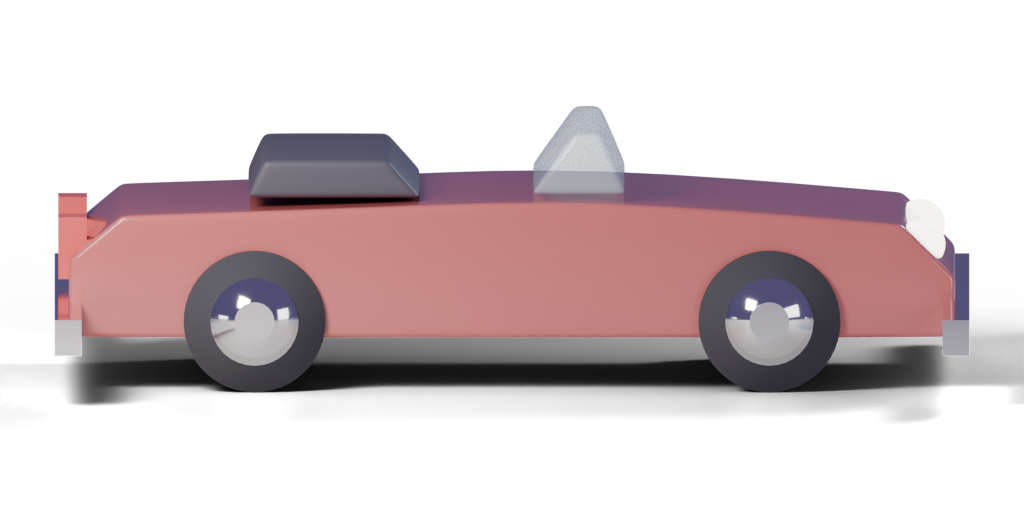
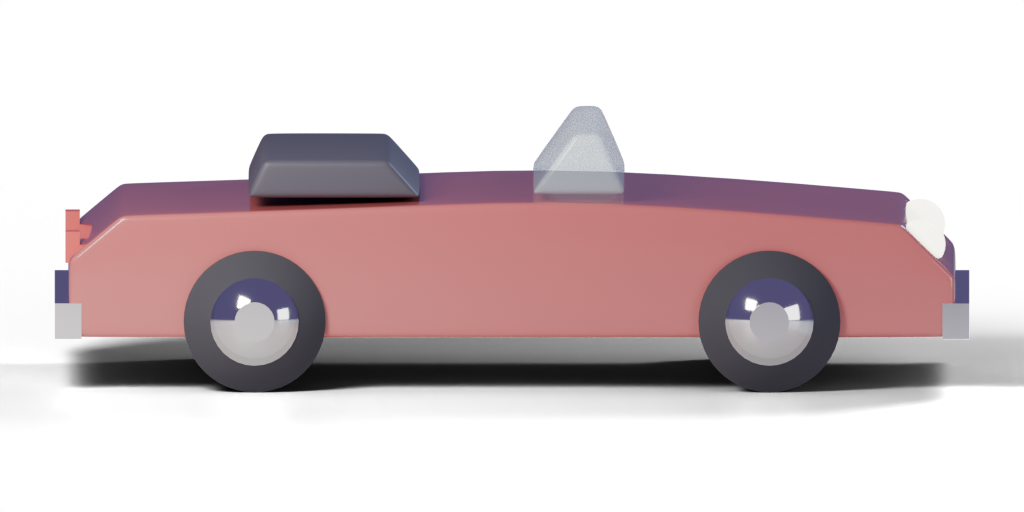
A02: Blender 3D car builder (retry 1)

diff --git a/tools/art/blender_car.py b/tools/art/blender_car.py
@@ -1,5 +1,6 @@
 # A02: build a 3D toy-style car from an outline (profiles.json) and render it.
-# Run headless: blender --background --python tools/art/blender_car.py -- <args>
+# Run headless:
+#   blender --background --python tools/art/blender_car.py --python-exit-code 1 -- <args>
 # Args after --: --archetype <name>  --color <#rrggbb>  --out <png path>
 #                --w <int> (default 1024)  --h <int> (default 512)
 import bpy
@@ -26,11 +27,13 @@ def parse_args(argv):
         elif a == '--out':
             args['out'] = argv[i + 1]
             i += 2
-        elif a == '--w':
-            args['w'] = int(argv[i + 1])
-            i += 2
-        elif a == '--h':
-            args['h'] = int(argv[i + 1])
+        elif a in ('--w', '--h'):
+            try:
+                args[a[2:]] = int(argv[i + 1])
+            except (ValueError, IndexError):
+                print('Bad value for %s: %r, expected an integer' %
+                      (a, argv[i + 1] if i + 1 < len(argv) else None))
+                sys.exit(2)
             i += 2
         else:
             print('Unknown argument: %s' % a)
@@ -46,7 +49,11 @@ def hex_to_rgb(s):
     if len(s) != 6:
         print('Bad colour %r, expected #rrggbb' % s)
         sys.exit(2)
-    return tuple(int(s[j:j + 2], 16) / 255.0 for j in (0, 2, 4))
+    try:
+        return tuple(int(s[j:j + 2], 16) / 255.0 for j in (0, 2, 4))
+    except ValueError:
+        print('Bad colour %r, expected #rrggbb' % s)
+        sys.exit(2)
 
 
 def set_socket(node, name, value):
@@ -153,7 +160,7 @@ def build_car(profile, mats):
             location=(x * U, 0, 8 * U))
         b = bpy.context.active_object
         b.name = 'bumper'
-        b.scale = (1.5 * U, width * U, 2.0 * U)
+        b.scale = (1.5 * U, width / 2.0 * U, 2.0 * U)
         b.data.materials.append(mats['chrome'])
     # Headlights: emissive spheres each side. Tail lights: red boxes.
     y_light = (width / 2.0 - 7) * U
@@ -175,7 +182,7 @@ def build_car(profile, mats):
                           (tail['y'] + tail['h'] / 2.0) * U))
             t = bpy.context.active_object
             t.name = 'taillight'
-            t.scale = (tail['w'] * U, 2.0 * U, tail['h'] * U)
+            t.scale = (tail['w'] / 2.0 * U, 1.0 * U, tail['h'] / 2.0 * U)
             t.data.materials.append(mats['taillight'])
 
 
